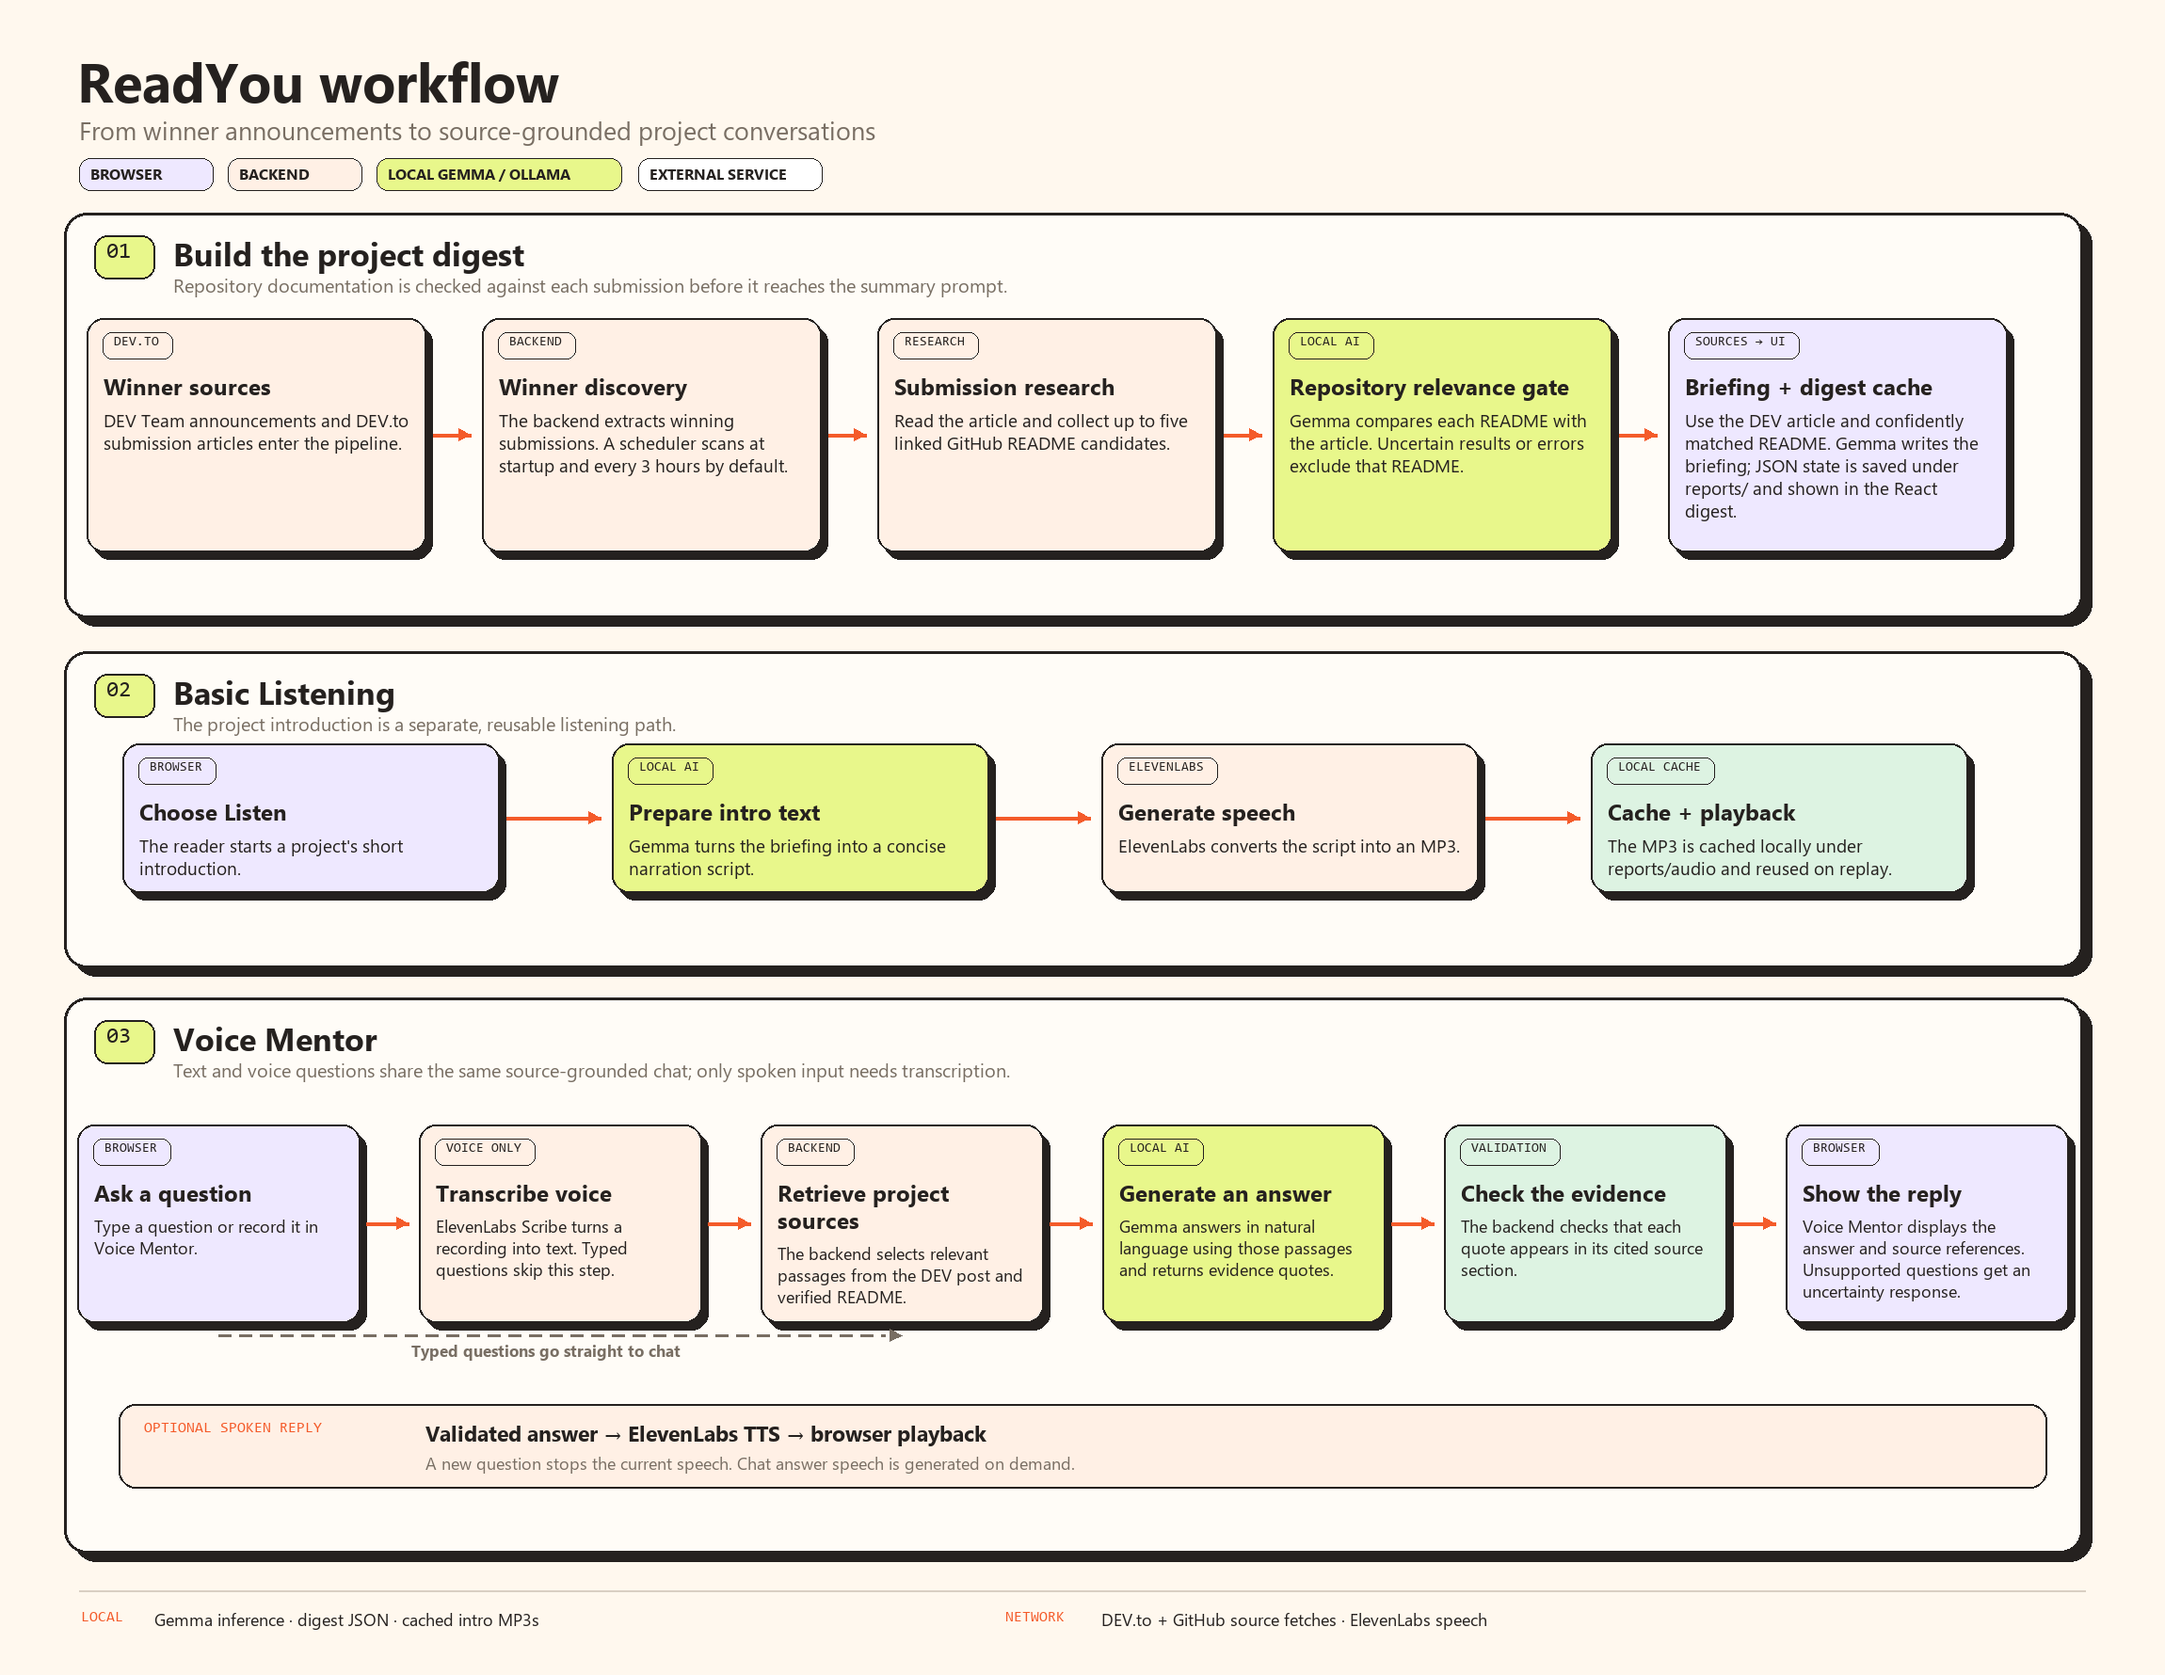
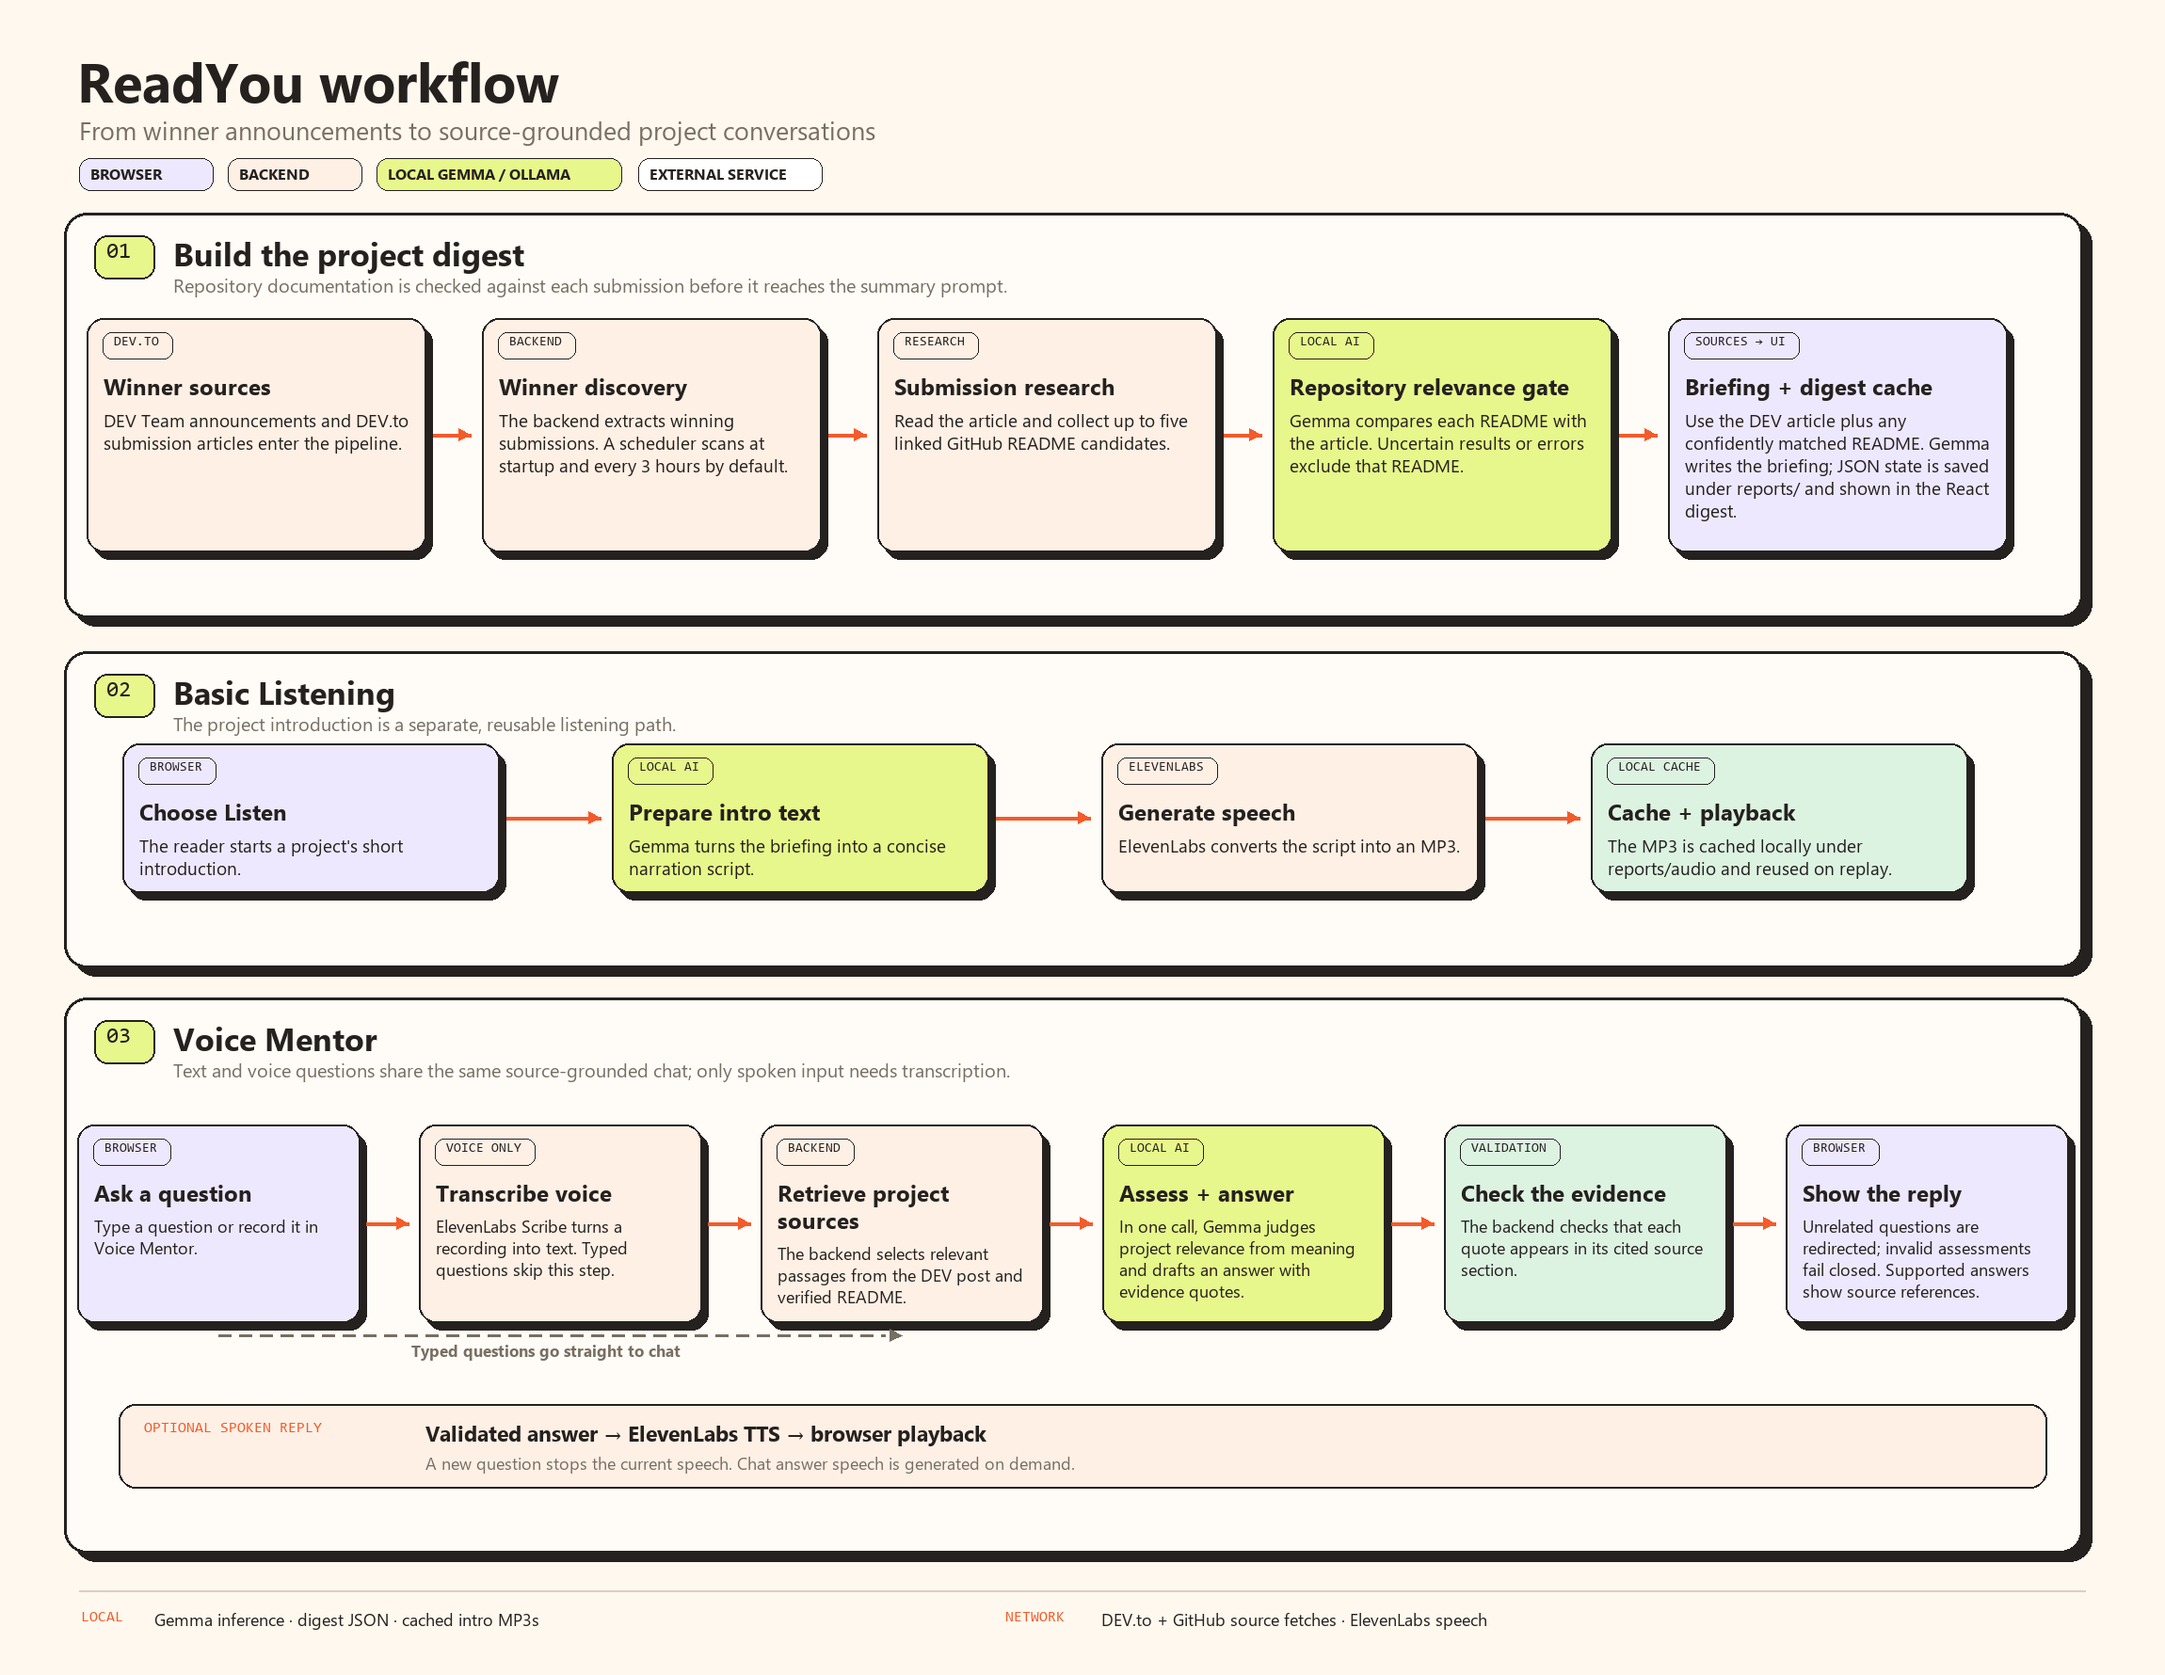
readme updated post workflow update

Changed region(s): [[0.7717, 0.2472, 0.9261, 0.309], [0.5248, 0.7107, 0.6174, 0.7725], [0.8335, 0.7107, 0.9261, 0.7725]]

diff --git a/docs/generate_readyou_workflow.py b/docs/generate_readyou_workflow.py
@@ -197,9 +197,9 @@ mentor_cards = [
     ("Ask a question", "Type a question or record it in Voice Mentor.", LAVENDER, "BROWSER"),
     ("Transcribe voice", "ElevenLabs Scribe turns a recording into text. Typed questions skip this step.", PEACH, "VOICE ONLY"),
     ("Retrieve project sources", "The backend selects relevant passages from the DEV post and verified README.", PEACH, "BACKEND"),
-    ("Generate an answer", "Gemma answers in natural language using those passages and returns evidence quotes.", LIME, "LOCAL AI"),
+    ("Assess + answer", "In one call, Gemma judges project relevance from meaning and drafts an answer with evidence quotes.", LIME, "LOCAL AI"),
     ("Check the evidence", "The backend checks that each quote appears in its cited source section.", GREEN, "VALIDATION"),
-    ("Show the reply", "Voice Mentor displays the answer and source references. Unsupported questions get an uncertainty response.", LAVENDER, "BROWSER"),
+    ("Show the reply", "Unrelated questions are redirected; invalid assessments fail closed. Supported answers show source references.", LAVENDER, "BROWSER"),
 ]
 for x, item in zip(mentor_xs, mentor_cards):
     card(x, mentor_y, mentor_w, mentor_h, *item, body_size=18)

diff --git a/README.md b/README.md
@@ -19,6 +19,8 @@ It is built as a local-first app: summaries and chat use a Gemma model served by
 
 The backend checks DEV Team articles for winner announcements on startup and then on a timer. For each announcement, it finds the submissions, reads their DEV article content, and checks linked GitHub repositories. A local Gemma model classifies whether a candidate README documents the submitted project; uncertain candidates are left out. Summaries and chat use the submission and only the selected project documentation.
 
+For project chat, Gemma assesses whether a question is about the selected project from its meaning, then drafts an answer using retrieved source passages in the same model call. The backend verifies that supporting quotes appear in their cited sections. Unrelated questions are redirected, invalid scope assessments fail closed, and the chat avoids presenting unsupported claims when the sources cannot answer.
+
 Processed announcements, summaries, and generated audio are stored under `reports/`. This directory is local application data and is ignored by Git. Chat session history is held in backend memory and expires; it is not stored in the reports cache.
 
 ## Requirements
